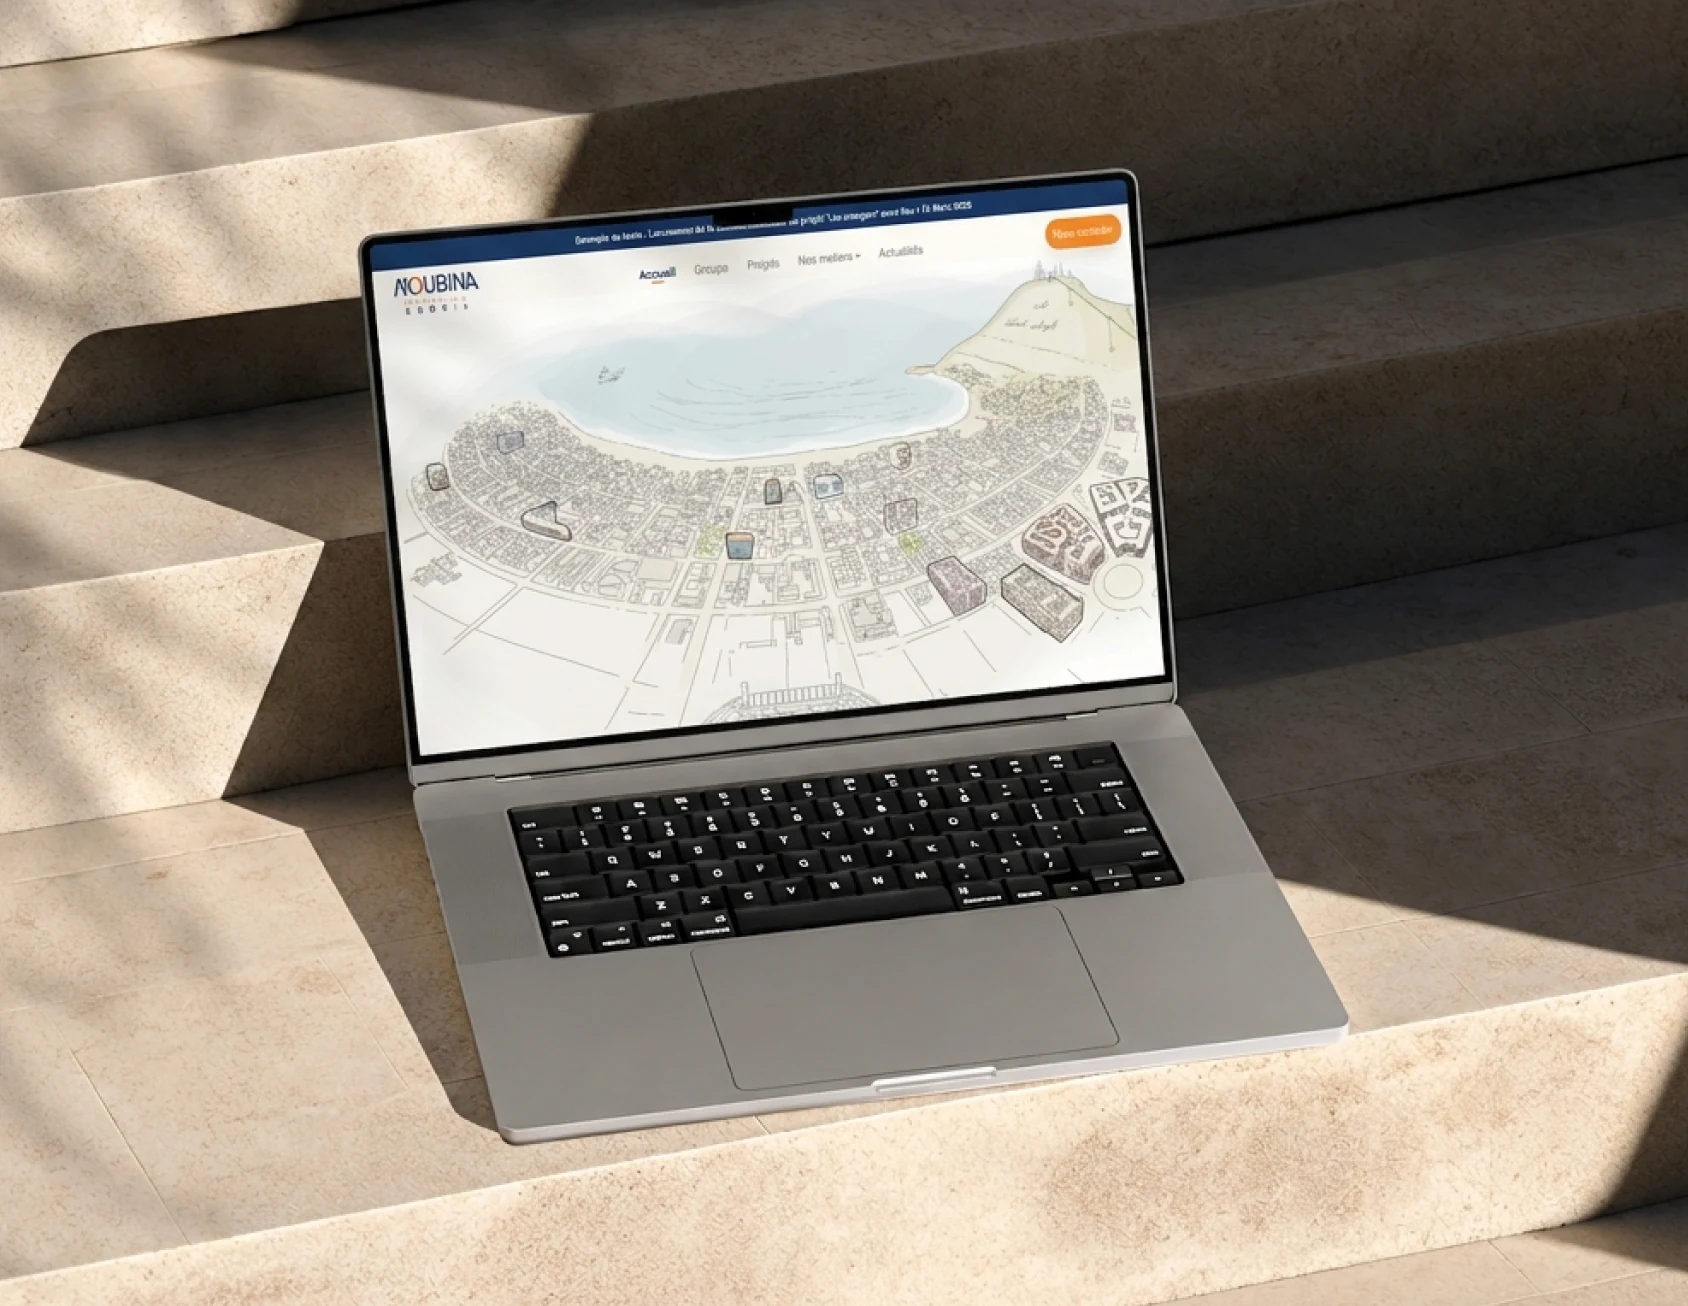
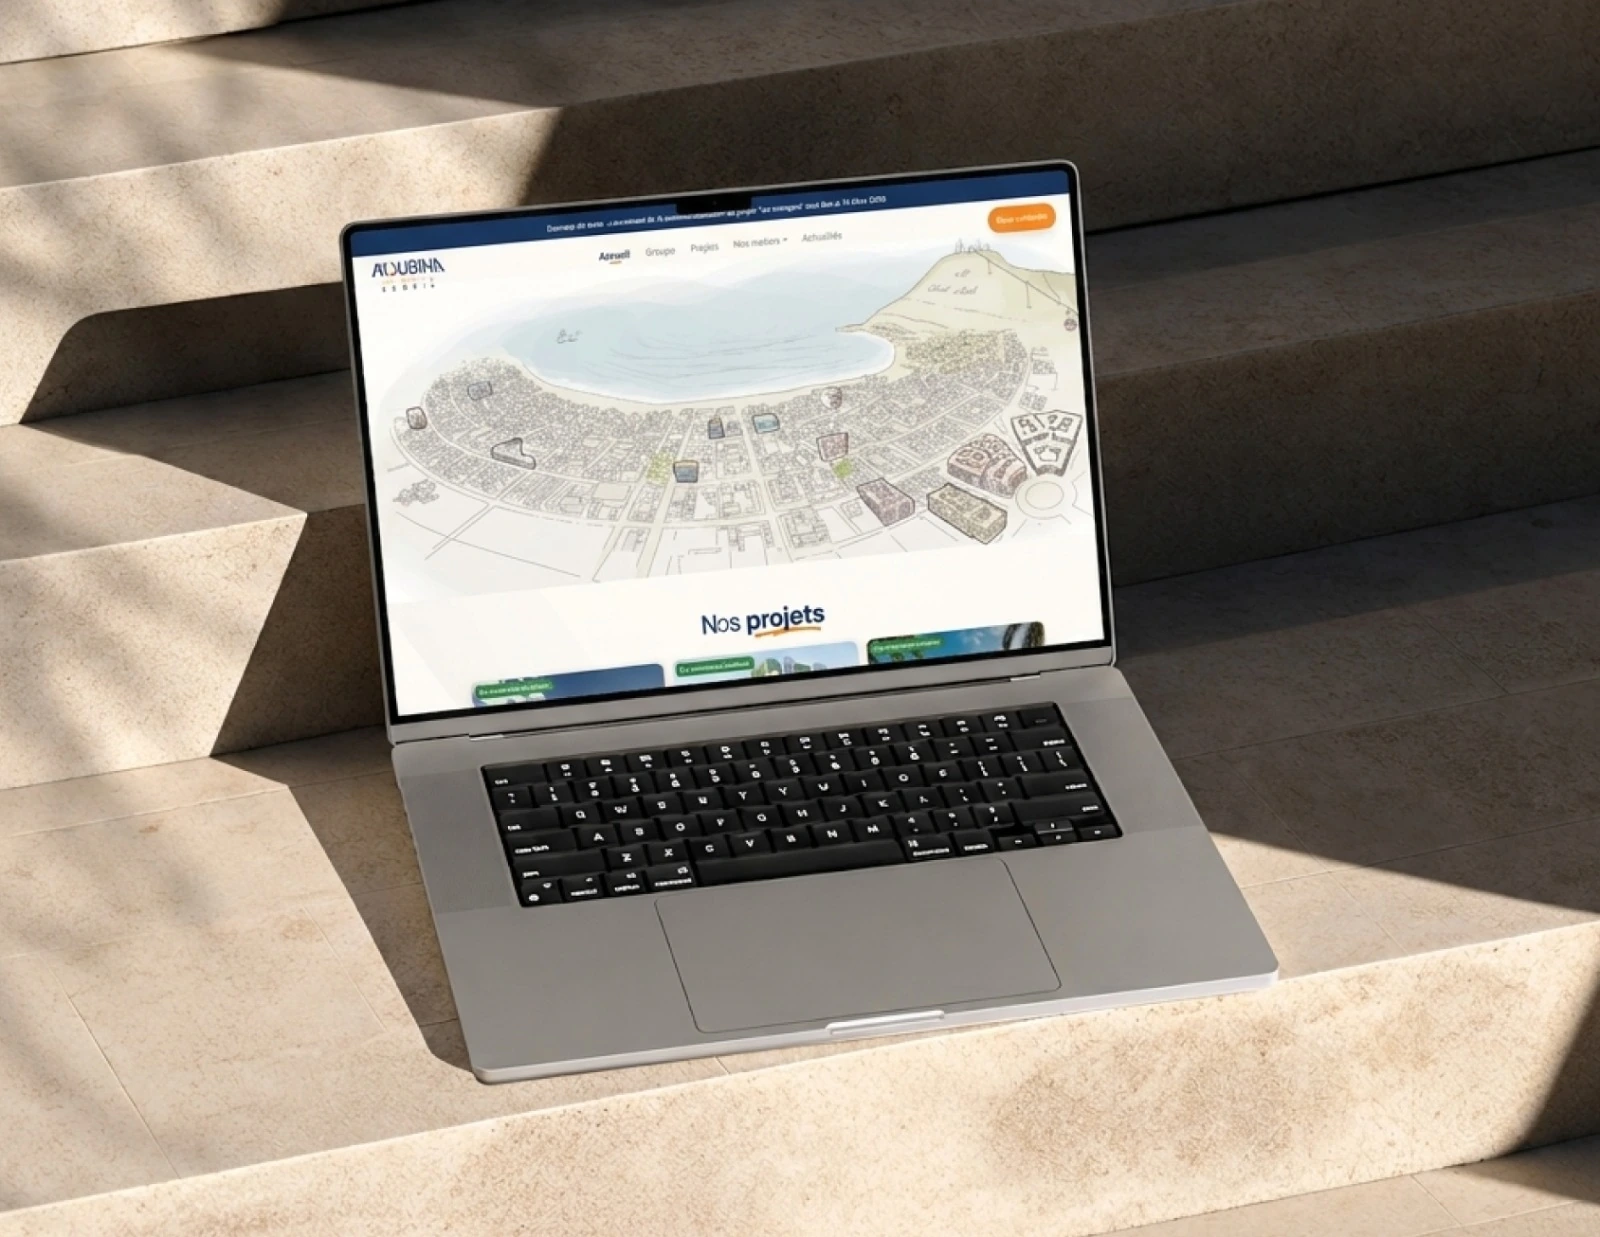
feat: remove work hover case study tag, update Moubina image, and add live website CTA before next/prev in project pages

Changed region(s): [[0.2188, 0.1536, 0.6875, 0.5837], [0.375, 0.1536, 0.5625, 0.215], [0.2188, 0.1843, 0.2812, 0.3072]]

diff --git a/index.html b/index.html
@@ -172,7 +172,6 @@
         <a class="work work--link" href="/tracky/" data-reveal aria-label="View Tracky App case study">
           <figcaption>
             <span>App Mobile</span>
-            <span class="work__tag">Case Study ↗</span>
           </figcaption>
           <div class="work__media">
             <img src="/assets/images/work-mobile-app.webp" alt="Tracky vehicle tracking mobile app shown on a phone" width="1688" height="1307" loading="lazy" />
@@ -182,7 +181,6 @@
         <a class="work work--link" href="/pralyne/" data-reveal aria-label="View Pralyne case study">
           <figcaption>
             <span>Website</span>
-            <span class="work__tag">Case Study ↗</span>
           </figcaption>
           <div class="work__media">
             <img src="/assets/images/work-pralyne.webp" alt="Pralyne pastry website shown on a laptop" width="1688" height="1307" loading="lazy" />
@@ -192,17 +190,15 @@
         <a class="work work--link" href="/moubina/" data-reveal aria-label="View Moubina case study">
           <figcaption>
             <span>Website</span>
-            <span class="work__tag">Case Study ↗</span>
           </figcaption>
           <div class="work__media">
-            <img src="/assets/images/work-noubina.webp" alt="Moubina real estate website shown on a laptop" width="1688" height="1306" loading="lazy" />
+            <img src="/assets/images/work-moubina.webp" alt="Moubina real estate website shown on a laptop" width="1600" height="1237" loading="lazy" />
             <span class="work__media-title">Moubina</span>
           </div>
         </a>
         <a class="work work--link" href="/qash-bank/" data-reveal aria-label="View Qash Bank case study">
           <figcaption>
             <span>App Case Study</span>
-            <span class="work__tag">Case Study ↗</span>
           </figcaption>
           <div class="work__media">
             <img src="/assets/images/work-banking-app.webp" alt="Qash Bank banking app case study shown on two phones" width="1688" height="1307" loading="lazy" />

diff --git a/qash-bank/index.html b/qash-bank/index.html
@@ -178,20 +178,11 @@
       </div>
     </section>
 
-    <!-- PROTOTYPE & VIDEO SHOWCASE -->
-    <section class="p-prototype" id="showcase" data-reveal>
-      <figure class="p-prototype__frame">
-        <img
-          src="/assets/images/qash-video-showcase.webp"
-          alt="Qash Bank Interactive Prototype and Mobile Journey"
-          width="1840"
-          height="886"
-          loading="lazy"
-        />
-      </figure>
-      <a class="p-prototype__btn" href="https://www.behance.net/gallery/256737259/Qash-Mobile-Banking-App-UIUX-Case-Study" target="_blank" rel="noopener">
-        <span class="p-prototype__btn-label">Live case study</span>
-        <span class="p-prototype__btn-icon"><img src="/assets/icons/arrow-ne.svg" alt="" width="20" height="20" /></span>
+    <!-- LIVE CASE STUDY CTA -->
+    <section class="p-cta" id="showcase" data-reveal>
+      <a class="btn btn--lime" href="https://www.behance.net/gallery/256737259/Qash-Mobile-Banking-App-UIUX-Case-Study" target="_blank" rel="noopener">
+        <span class="btn__label">Live case study</span>
+        <span class="btn__icon"><img src="/assets/icons/arrow-ne.svg" alt="" width="20" height="20" /></span>
       </a>
     </section>
 

diff --git a/pralyne/index.html b/pralyne/index.html
@@ -178,20 +178,11 @@
       </div>
     </section>
 
-    <!-- PROTOTYPE & VIDEO SHOWCASE -->
-    <section class="p-prototype" data-reveal>
-      <figure class="p-prototype__frame">
-        <img
-          src="/assets/images/pralyne-video-showcase.webp"
-          alt="Pralyne Interactive Prototype Video Demo"
-          width="1840"
-          height="886"
-          loading="lazy"
-        />
-      </figure>
-      <a class="p-prototype__btn" href="https://pralyne.ma" target="_blank" rel="noopener">
-        <span class="p-prototype__btn-label">Live Website</span>
-        <span class="p-prototype__btn-icon"><img src="/assets/icons/arrow-ne.svg" alt="" width="20" height="20" /></span>
+    <!-- LIVE WEBSITE CTA -->
+    <section class="p-cta" data-reveal>
+      <a class="btn btn--lime" href="https://pralyne.ma" target="_blank" rel="noopener">
+        <span class="btn__label">Live Website</span>
+        <span class="btn__icon"><img src="/assets/icons/arrow-ne.svg" alt="" width="20" height="20" /></span>
       </a>
     </section>
 

diff --git a/moubina/index.html b/moubina/index.html
@@ -177,20 +177,11 @@
       </div>
     </section>
 
-    <!-- PROTOTYPE & VIDEO SHOWCASE -->
-    <section class="p-prototype" id="showcase" data-reveal>
-      <figure class="p-prototype__frame">
-        <img
-          src="/assets/images/moubina-video-showcase.webp"
-          alt="Moubina Interactive Case Study Demo"
-          width="1840"
-          height="886"
-          loading="lazy"
-        />
-      </figure>
-      <a class="p-prototype__btn" href="#top" data-scroll-to="#top">
-        <span class="p-prototype__btn-label">Live case study</span>
-        <span class="p-prototype__btn-icon"><img src="/assets/icons/arrow-ne.svg" alt="" width="20" height="20" /></span>
+    <!-- LIVE ACTION / CASE STUDY CTA -->
+    <section class="p-cta" id="showcase" data-reveal>
+      <a class="btn btn--lime" href="#top" data-scroll-to="#top">
+        <span class="btn__label">Live case study</span>
+        <span class="btn__icon"><img src="/assets/icons/arrow-ne.svg" alt="" width="20" height="20" /></span>
       </a>
     </section>
 

diff --git a/src/pralyne.css b/src/pralyne.css
@@ -339,6 +339,23 @@
 }
 
 /* --------------------------------------------------------------------------
+   Live Website CTA (Before Next/Prev)
+   -------------------------------------------------------------------------- */
+
+.p-cta {
+  display: flex;
+  justify-content: center;
+  align-items: center;
+  margin: calc(100 * var(--u)) auto calc(60 * var(--u));
+  max-width: calc(1840 * var(--u));
+  padding: 0 calc(40 * var(--u));
+}
+
+.p-cta .btn--lime {
+  display: inline-flex;
+}
+
+/* --------------------------------------------------------------------------
    Bottom Navigation
    -------------------------------------------------------------------------- */
 
@@ -662,6 +679,11 @@
   .p-prototype__btn:hover {
     transform: translateY(-2px);
     box-shadow: 0 14px 28px rgba(212, 245, 52, 0.35);
+  }
+
+  .p-cta {
+    margin: 48px auto 28px;
+    padding: 0 20px;
   }
 
   .p-nav {

diff --git a/src/style.css b/src/style.css
@@ -1014,24 +1014,6 @@ body.is-drawer-open .nav {
   font-weight: 500;
 }
 
-.work__tag {
-  font-size: max(12px, calc(16 * var(--u)));
-  font-weight: 500;
-  color: #000;
-  opacity: 0;
-  transform: translateX(-8px);
-  transition: opacity 0.35s cubic-bezier(0.16, 1, 0.3, 1),
-              transform 0.35s cubic-bezier(0.16, 1, 0.3, 1);
-  display: inline-flex;
-  align-items: center;
-  gap: 4px;
-}
-
-.work--link:hover .work__tag {
-  opacity: 1;
-  transform: translateX(0);
-}
-
 .work__media {
   position: relative;
   aspect-ratio: 844 / 653.5;
@@ -1651,11 +1633,6 @@ body.is-drawer-open .nav {
 
   .work figcaption span:first-child {
     opacity: 0.4;
-  }
-
-  .work figcaption .work__tag {
-    font-size: 12px;
-    font-weight: 500;
   }
 
   .work__media {

diff --git a/tracky/index.html b/tracky/index.html
@@ -177,6 +177,14 @@
       </div>
     </section>
 
+    <!-- LIVE APP / GOOGLE PLAY CTA -->
+    <section class="p-cta" data-reveal>
+      <a class="btn btn--lime" href="https://play.google.com/store/apps/details?id=com.tracky.android&hl=fr" target="_blank" rel="noopener">
+        <span class="btn__label">Google Play</span>
+        <span class="btn__icon"><img src="/assets/icons/arrow-ne.svg" alt="" width="20" height="20" /></span>
+      </a>
+    </section>
+
     <!-- BOTTOM PROJECT NAVIGATION -->
     <section class="p-nav" data-reveal>
       <div class="p-nav__inner">
